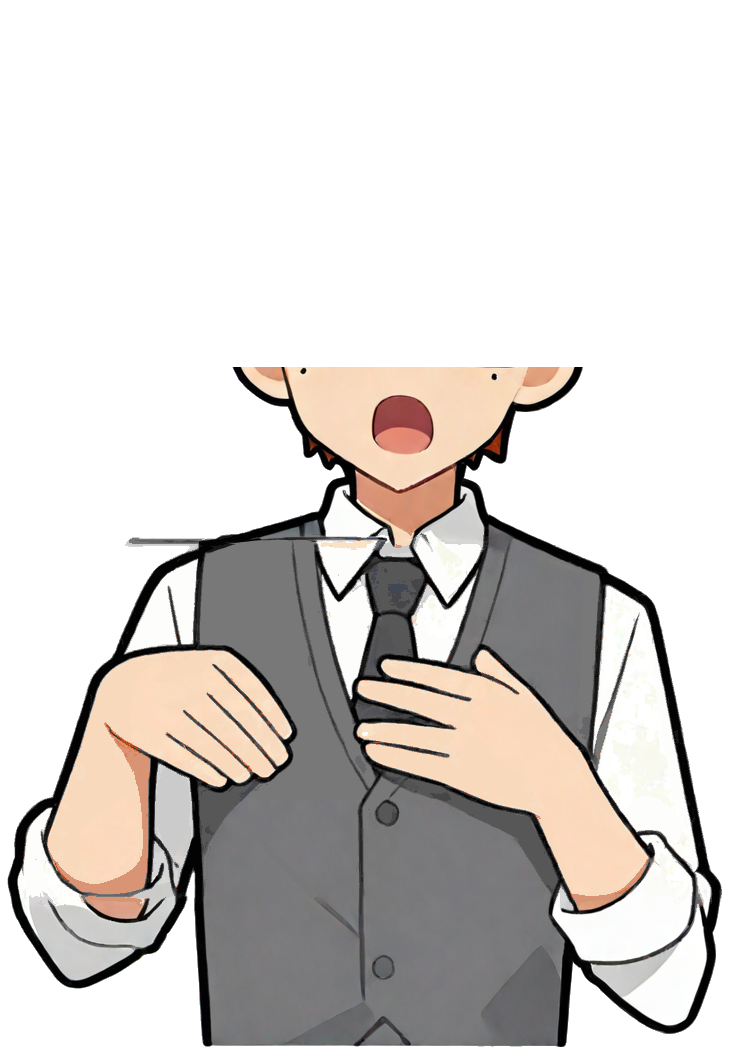
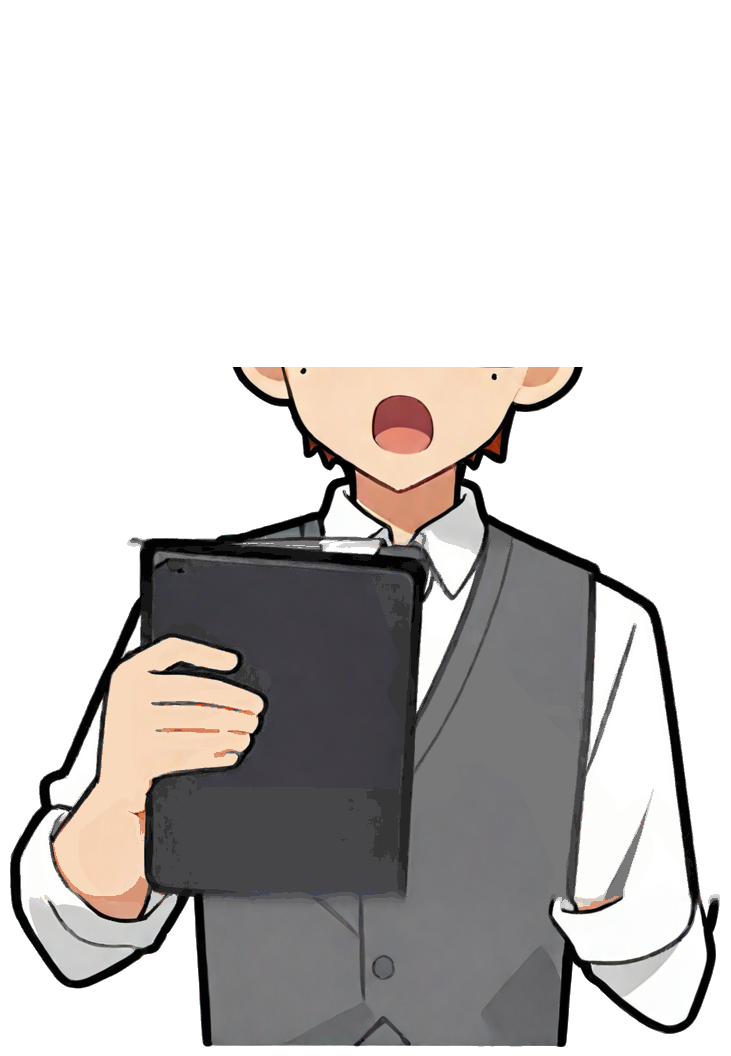
feat(vector): rex_eager gesture arc - the tablet survives every step
Rex's first arc run scored HIGH on travel precisely because the inpaint
deleted the tablet he holds in the base drawing; an object popping out of
existence mid-beat is worse than a morphing hand, so the pose stayed on
the vocabulary ladder. The re-run names the tablet in every step - one
hand keeps holding it, the other gestures - and it survives all five
drawings, ending on his pointing finger raised beside it.

rex_skeptic deliberately stays on the vocabulary: his arc run produced
same-seed clones, and arms-crossed is the right resting language for the
skeptic anyway.

Changed region(s): [[0.0, 0.5, 0.9932, 0.875], [0.6922, 0.5, 0.7223, 0.5312]]

diff --git a/scripts/vector/gesture_arc.py b/scripts/vector/gesture_arc.py
@@ -50,6 +50,22 @@ FIX = REPO / "remotion/src/fixtures/cast_ep1"
 # weight 1.4, the hand shape is named identically in every step, and the
 # base pose's own gesture ("pointing, index finger") is negated so the
 # model cannot just keep it.
+# Per-character arcs. Rex's first arc run scored HIGH on travel precisely
+# because the inpaint deleted the tablet he holds in the base drawing - an
+# object that would pop out of existence the moment the ladder starts. His
+# arc therefore names the tablet in every step: one hand keeps holding it,
+# the OTHER hand gestures. Sol keeps his signature point.
+ARC_REX = [
+    ("arc0", "(holding a dark tablet with both hands:1.3), looking at it"),
+    ("arc1", "(holding a dark tablet in one hand:1.3), other arm relaxed "
+             "down"),
+    ("arc2", "(holding a dark tablet in one hand:1.3), (other hand raised "
+             "at waist height, palm open:1.2)"),
+    ("arc3", "(holding a dark tablet in one hand:1.3), (other hand raised "
+             "at chest height, palm open:1.2)"),
+    ("arc4", "(holding a dark tablet in one hand:1.3), (other arm raised "
+             "high, pointing up:1.2)"),
+]
 ARC = [
     ("arc0", "(pointing his index finger downward:1.3), arm lowered"),
     ("arc1", "(arm low, pointing index finger forward at waist height:1.3)"),
@@ -95,8 +111,9 @@ def run(pose: str, client, denoise: float) -> int:
     ComfyClient.stage_input(stage / ("ga_%s_base.png" % pose))
     ComfyClient.stage_input(stage / ("ga_%s_mask.png" % pose))
 
+    arc = ARC_REX if pose.startswith("rex") else ARC
     man = []
-    for i, (name, desc) in enumerate(ARC):
+    for i, (name, desc) in enumerate(arc):
         t0 = time.monotonic()
         paths = client.generate(
             "sdxl_lora_inpaint", out, timeout=600,
@@ -118,7 +135,7 @@ def run(pose: str, client, denoise: float) -> int:
     (out / "manifest.json").write_text(json.dumps(man, indent=1), "utf-8")
 
     tiles = [("BASE", Image.fromarray(base))] + [
-        (n, Image.open(out / (n + ".png")).convert("RGB")) for n, _ in ARC]
+        (n, Image.open(out / (n + ".png")).convert("RGB")) for n, _ in arc]
     ht = 400
     wt = int(tiles[0][1].width * ht / tiles[0][1].height)
     sheet = Image.new("RGB", (wt * len(tiles), ht + 24), "white")
@@ -128,7 +145,7 @@ def run(pose: str, client, denoise: float) -> int:
         sheet.paste(im.resize((wt, ht)), (i * wt, 24))
         d.text((i * wt + 6, 6), n, fill=(0, 0, 0))
     sheet.save(out / "contact_sheet.png")
-    return len(ARC)
+    return len(arc)
 
 
 def main() -> None:

diff --git a/scripts/vector/publish_variants.py b/scripts/vector/publish_variants.py
@@ -170,7 +170,11 @@ def main() -> None:
         # would pop out of existence the moment the ladder starts. Only the
         # Sol point arcs hold one hand shape, real travel, and continuity.
         arc_d = d.parent.parent / "arcs" / pose
-        if pose in ("sol_point", "sol_point_v1") and arc_d.exists()                 and list(arc_d.glob("arc*.png")):
+        # rex_eager joined after a re-run whose every step names the tablet
+        # he holds, so it can no longer vanish; rex_skeptic stays on the
+        # vocabulary - his arc run produced clones, and arms-crossed suits
+        # the skeptic anyway.
+        if pose in ("sol_point", "sol_point_v1", "rex_eager")                 and arc_d.exists() and list(arc_d.glob("arc*.png")):
             d = arc_d
         variants = []
         for png in sorted(d.glob("*.png")):
